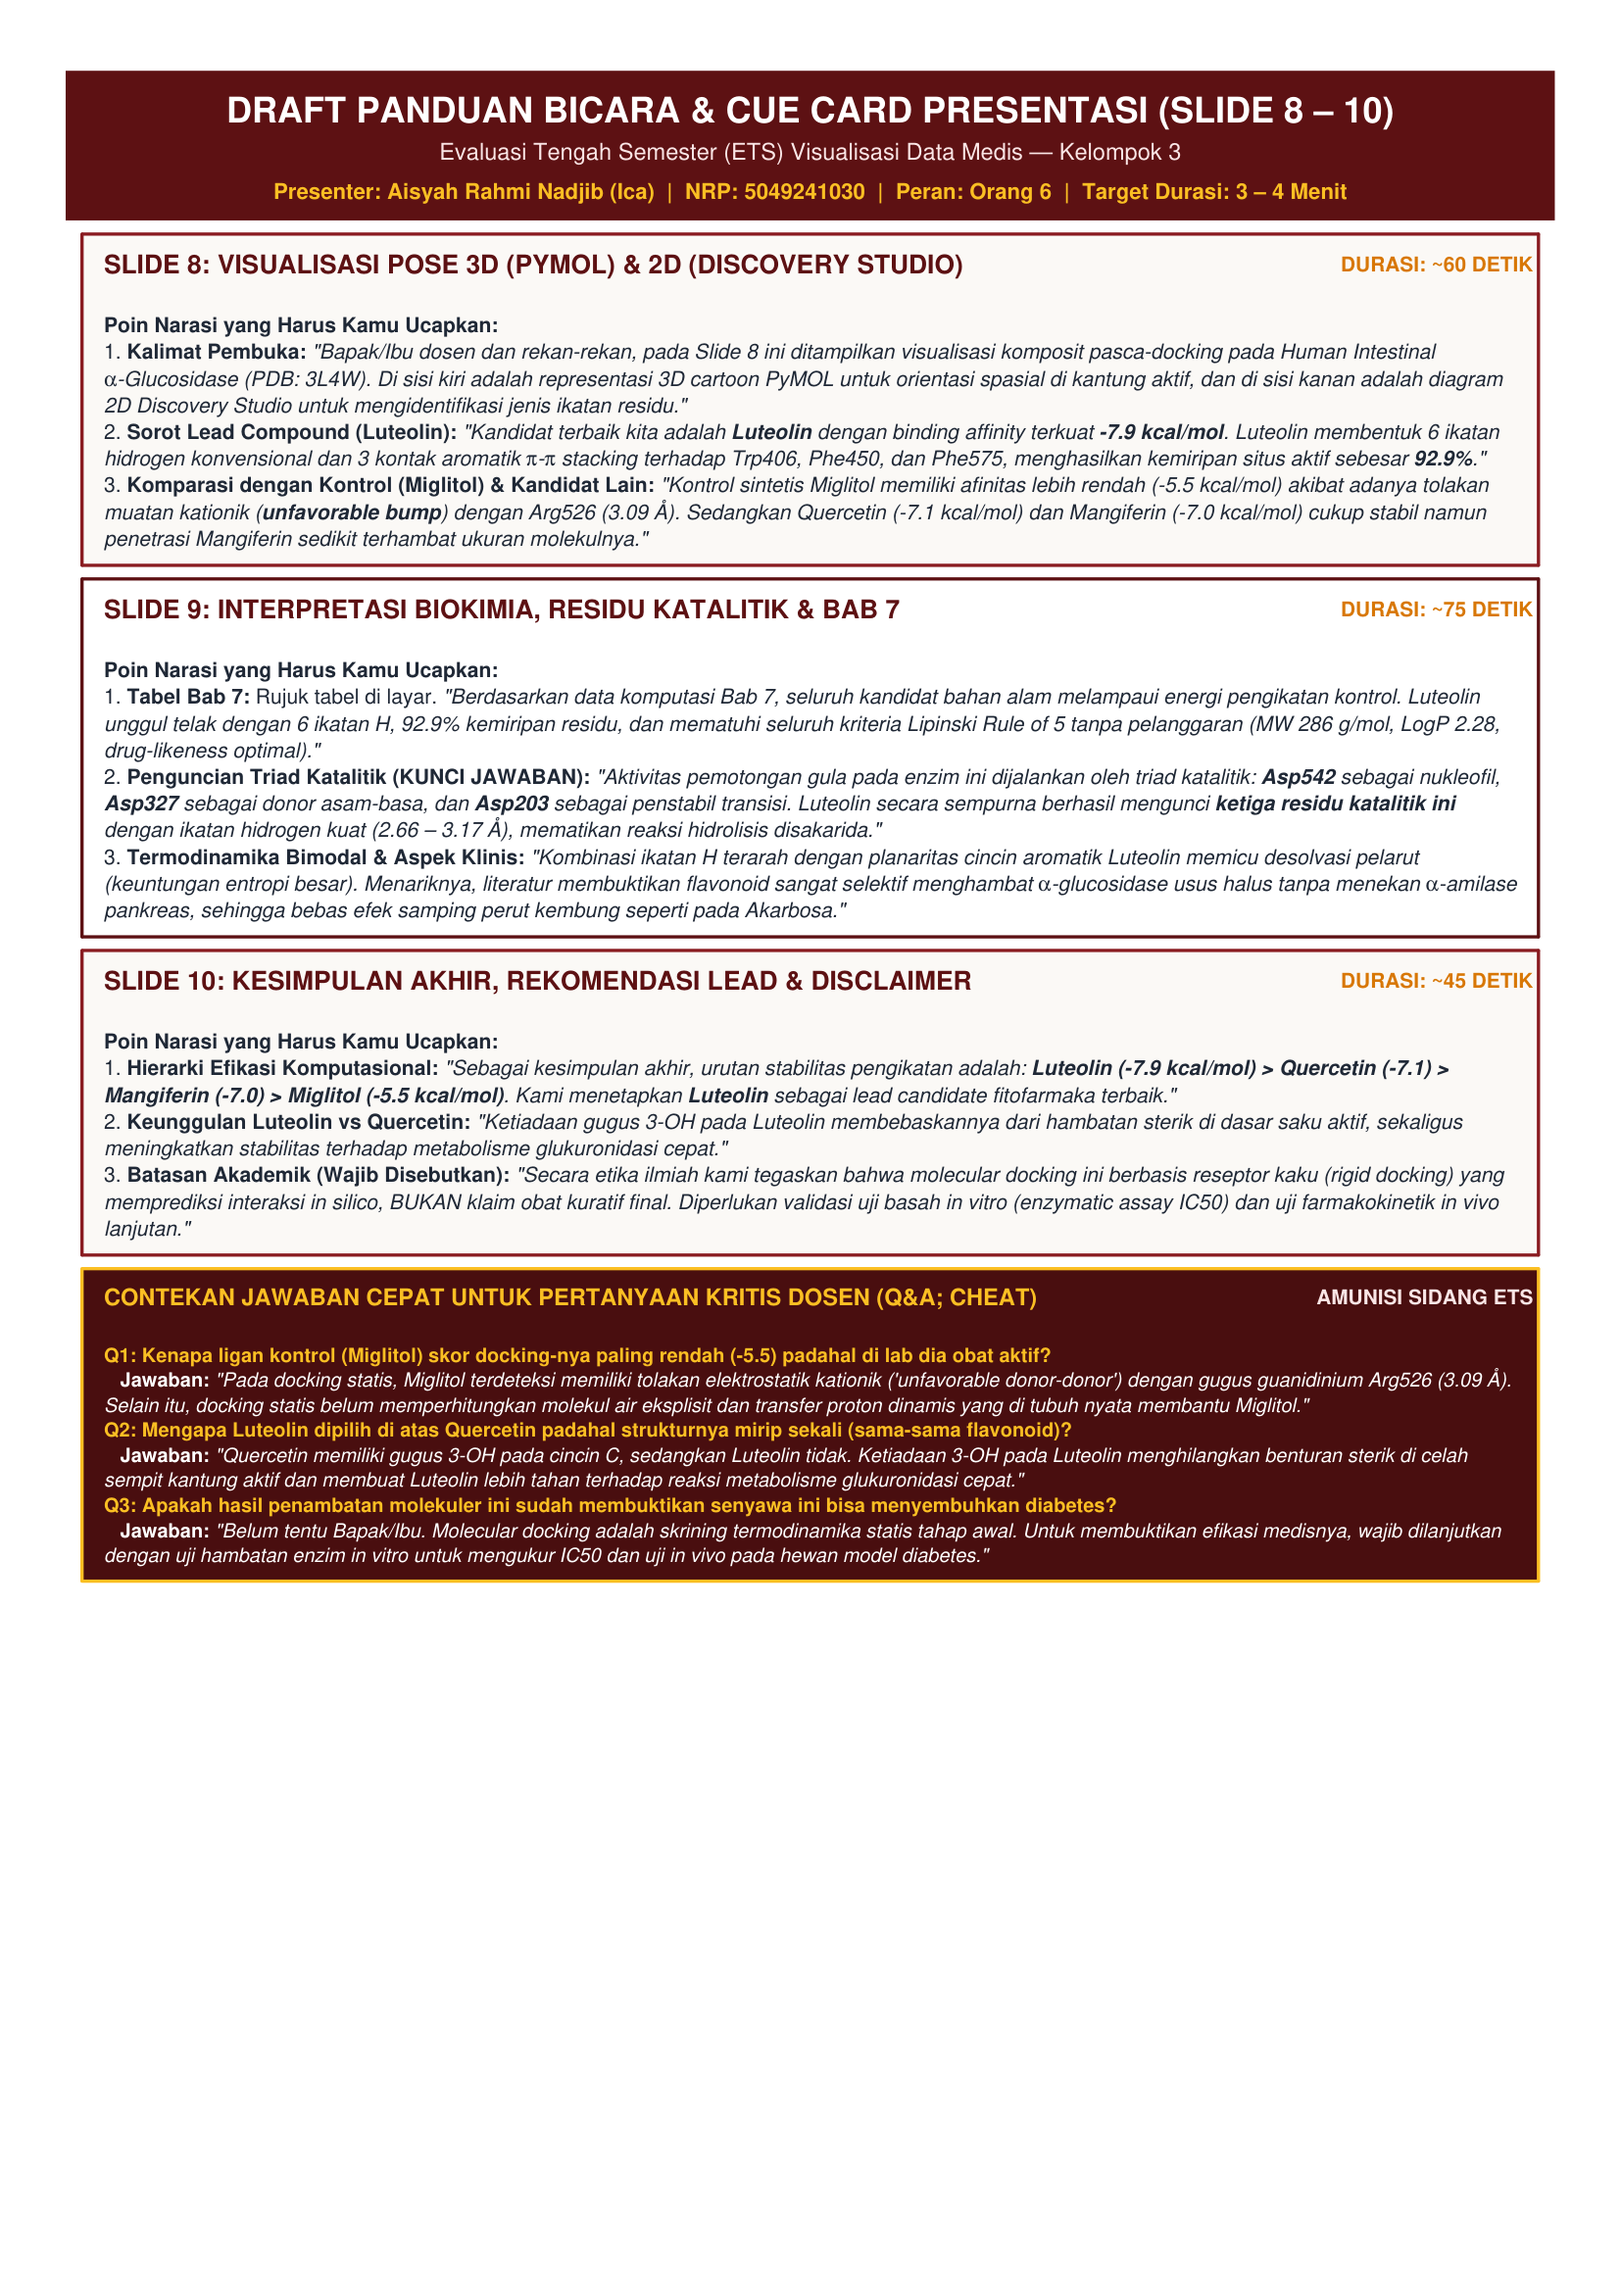
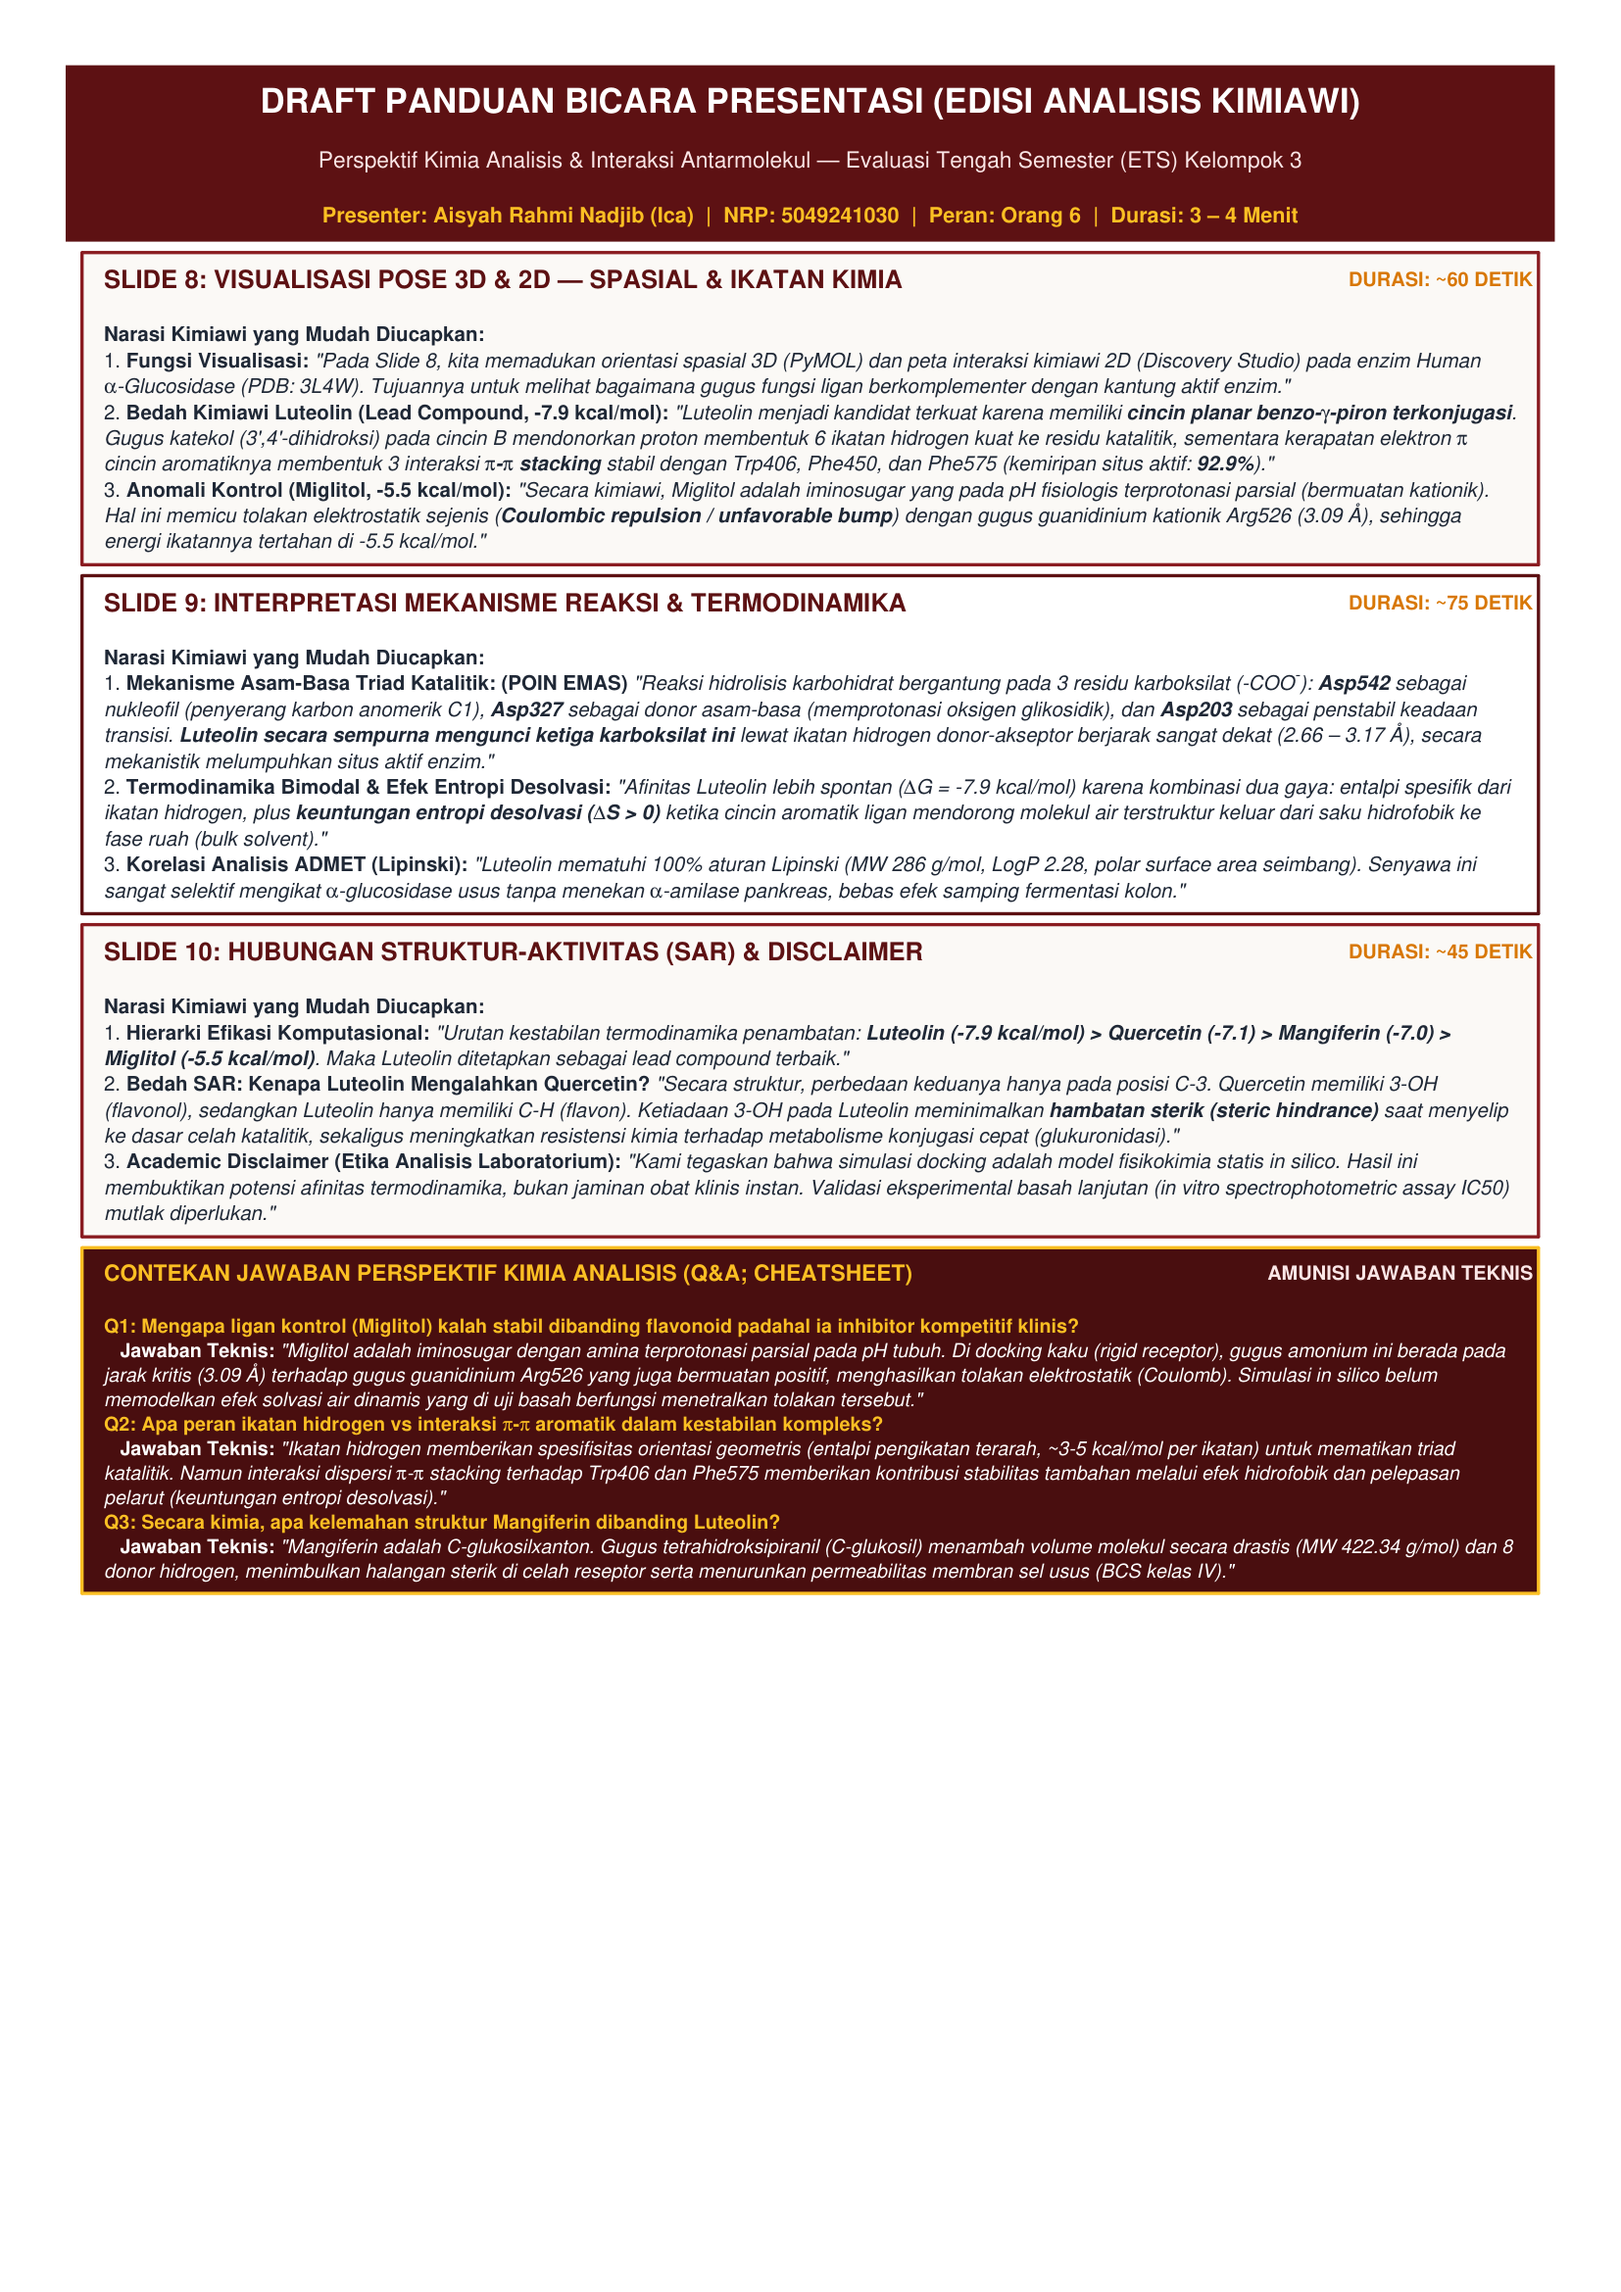
docs(orang 6): update 1-page cue card PDF and add analytical chemistry deep-dive guide for Ica

Changed region(s): [[0.0308, 0.0312, 0.9559, 0.7178]]

diff --git a/orang 6 ica/Bedah_Kimia_Analisis_Untuk_Ica.md b/orang 6 ica/Bedah_Kimia_Analisis_Untuk_Ica.md
@@ -1,0 +1,110 @@
+# 🧪 BEDAH KIMIA ANALISIS & MEKANISME REAKSI (KHUSUS UNTUK ICA)
+## "Mengingat Kembali Konsep Kimia Analis & Cara Menjelaskannya dengan Mudah tapi Tetap Ilmiah!"
+
+Halo Ica! Karena kamu punya background **Kimia Analisis**, sebenarnya materi penambatan molekuler (*molecular docking*) ini **100% adalah aplikasi nyata dari kimia larutan, kesetimbangan asam-basa, ikatan antarmolekul, dan termodinamika** yang dulu pernah kamu pelajari!
+
+Berikut adalah "jembatan ingatan" (recall cheat sheet) biar kamu bisa menjelaskan sisi kimiawinya dengan sangat luwes, masuk akal, dan bikin dosen langsung kagum!
+
+---
+
+## 🔬 1. Reaksi Utama Enzim: Kimia Hidrolisis Karbohidrat
+
+### Apa yang sebenarnya terjadi di usus secara kimia?
+Enzim **α-Glukosidase** bertugas memutus **ikatan glikosidik** ($\alpha-1,4$) pada disakarida (maltosa) menjadi dua molekul D-glukosa.
+Reaksi ini adalah **Substitusi Nukleofilik ($S_N2$ / $S_N1$-like) dengan Retensi Konfigurasi** yang melibatkan **Triad Residu Karboksilat**:
+
+```text
+       Substrat (Karbohidrat)
+               O (Jembatan glikosidik)
+              / \
+             C1  ... Oksigen glikosidik diprotonasi oleh Asp327 (-COOH mendonorkan H+)
+            /
+Asp542 (-COO⁻)  ===> Menyerang C1 anomerik (Nukleofil)
+            \
+Asp203 (-COO⁻)  ===> Menstabilkan ion oksokarbonium transisi (Transition State Stabilizer)
+```
+
+1. **Asp542 (Nukleofil Katalitik)**:
+   * Pada pH fisiologis usus ($\approx 6.8 - 7.2$), gugus karboksil rantai samping aspartat terdeprotonasi menjadi **anion karboksilat ($-COO^-$)**.
+   * Pasangan elektron bebas (PEB) pada oksigen $-COO^-$ bertindak sebagai **basa Lewis / nukleofil kuat** yang menyerang karbon anomerik ($C1$) substrat gula.
+2. **Asp327 (Donor Asam-Basa Umum)**:
+   * Bertindak sebagai **asam Bronsted-Lowry** (dalam bentuk terprotonasi $-COOH$), mendonorkan proton ($H^+$) ke atom oksigen jembatan glikosidik agar gugus pergi (*leaving group*) lepas.
+3. **Asp203 (Penstabil Keadaan Transisi)**:
+   * Menstabilkan muatan parsial positif pada cincin gula yang sedang bertransisi (*oxocarbenium ion-like transition state*) melalui gaya tarik elektrostatik.
+
+> 🗣 **Cara Ica Ngomong ke Dosen**:  
+> *"Secara kimia analitis, pusat katalitik enzim 3L4W dikendalikan oleh triad aspartat: Asp542 sebagai nukleofil penyerang C1 anomerik, Asp327 sebagai donor proton asam Bronsted, dan Asp203 penstabil keadaan transisi. Kandidat terbaik kita, Luteolin, berhasil mengunci ketiga karboksilat ini secara simultan lewat ikatan hidrogen donor-akseptor yang sangat rapat (2.66 – 3.17 Å), sehingga secara mekanistik mematikan reaksi hidrolisis gula!"*
+
+---
+
+## ⚡ 2. Mengapa Ligan Kontrol (Miglitol) Punya Energi Lebih Jelek (-5.5 kcal/mol)?
+
+Di lab basah (*in vitro*), Miglitol adalah obat antidiabetes paten. Tapi kenapa di hasil docking energinya cuma `-5.5 kcal/mol`, kalah dibanding flavonoid (`-7.0` s/d `-7.9 kcal/mol`)?
+
+### Penjelasan Kimia Analisis: "Coulombic Repulsion (Tolakan Muatan Sejenis)"
+1. **Sifat Fisikokimia Miglitol**:
+   * Miglitol adalah turunan iminosugar (*1-deoxynojirimycin*).
+   * Pada pH fisiologis, atom nitrogen pada cincin piperidinnya terprotonasi menjadi **kation amonium sekunder ($-NH_2^+-R$)**.
+2. **Sifat Residu Arg526**:
+   * Arginin memiliki rantai samping **gugus guanidinium** ($[-C(NH_2)_2]^+$) yang memiliki $pK_a \approx 12.5$.
+   * Artinya, pada pH tubuh, Arg526 **selalu bermuatan positif permanen (+1)**.
+3. **Tabrakan Elektrostatik**:
+   * Pada konformasi pose docking di AutoDock Vina, gugus amonium kationik Miglitol berada pada jarak **3.09 Å** dari kation guanidinium Arg526.
+   * Dua muatan positif yang berdekatan ini mengalami **Gaya Tolak Coulomb (Coulombic Repulsion)** yang di Discovery Studio ditandai sebagai garis merah putus-putus: **`Unfavorable Donor-Donor Bump`**!
+   * Akibatnya, nilai energi bebas netto $\Delta G$ Miglitol mengalami penalti (terdestabilisasi).
+
+> 🗣 **Cara Ica Ngomong ke Dosen**:  
+> *"Nilai afinitas Miglitol (-5.5 kcal/mol) tertahan karena adanya Unfavorable Donor-Donor bump dengan Arg526 (3.09 Å). Secara kimia analitis, gugus amina terprotonasi pada Miglitol dan gugus guanidinium pada Arg526 sama-sama bermuatan parsial positif pada pH fisiologis, memicu tolakan elektrostatik sejenis (Coulombic repulsion) pada model reseptor kaku."*
+
+---
+
+## 🧲 3. Dua Gaya Penentu Kemenangan Luteolin: Entalpi vs Entropi Desolvasi
+
+Di kimia fisik, energi bebas Gibbs dirumuskan:
+$$\Delta G = \Delta H - T\Delta S$$
+
+Agar ikatan obat spontan dan kuat, $\Delta G$ harus **sangat negatif**. Pada Luteolin (`-7.9 kcal/mol`), hal ini dicapai melalui **Sinergi Bimodal**:
+
+### 1. Kontribusi Entalpi Spesifik ($\Delta H < 0$):
+* **6 Ikatan Hidrogen Konvensional**:
+  * Gugus katekol ($3',4'-dihidroksi$) pada cincin B Luteolin bertindak sebagai donor proton ($D-H\cdots A$) ke atom oksigen karboksilat Asp327 ($2.66\text{ \AA}$) dan Asp542 ($3.14\text{ \AA}$).
+  * Jarak $2.66\text{ \AA}$ ini tergolong ikatan hidrogen **sangat kuat dan terarah**, menyumbangkan entalpi pengikatan sekitar $-3$ hingga $-5\text{ kcal/mol}$ per ikatan.
+
+### 2. Kontribusi Entropi Desolvasi ($\Delta S > 0$ sehingga $-T\Delta S < 0$):
+* Kantung aktif enzim di dalam air awalnya dipenuhi oleh molekul air yang tersusun rapi (*ordered water hydration shell* / entropi rendah).
+* Luteolin memiliki **kerangka cincin benzo-$\gamma$-piron planar yang hidrofobik**.
+* Ketika Luteolin masuk dan membentuk **$\pi$-$\pi$ stacking** dengan residu aromatik Trp406 (cincin indol), Phe575, dan Phe450 (cincin benzena), molekul air yang terkurung diusir keluar ke fase air bebas (*bulk solvent*).
+* Pelepasan air ini meningkatkan ketidakteraturan sistem secara drastis ($\Delta S_{pelarut} > 0$), menghasilkan dorongan termodinamika ekstra yang membuat $\Delta G$ melonjak stabil ke `-7.9 kcal/mol`!
+
+---
+
+## ⚖ 4. Hubungan Struktur dan Aktivitas (SAR): Luteolin vs Quercetin
+
+| Parameter Kimiawi | Quercetin (Kandidat 1) | Luteolin (Kandidat 2 — Pemenang) |
+| :--- | :--- | :--- |
+| **Golongan Senyawa** | **Flavonol** | **Flavon** |
+| **Gugus pada Posisi C-3** | **Ada gugus hidroksil ($-OH$)** | **Hanya atom hidrogen ($-H$)** |
+| **Energi Bebas ($\Delta G$)** | $-7.1\text{ kcal/mol}$ | **$-7.9\text{ kcal/mol}$ (Lebih Spontan)** |
+| **Efek Sterik Ruang** | Gugus $3-OH$ agak bulky di celah saku | **Planar mulus, bebas benturan sterik** |
+| **Kestabilan Kimiawi** | Rentan autooksidasi & glukuronidasi cepat | **Lebih resisten terhadap metabolisme tubuh** |
+
+### Kenapa ketiadaan gugus 3-OH justru bikin Luteolin lebih unggul?
+1. **Faktor Sterik**: Dasar kantung aktif enzim $\alpha$-glukosidase memiliki celah sub-situs -1 yang sempit. Ketiadaan gugus oksigen pada C-3 membuat Luteolin lebih fleksibel menyelip rapat (*tight fit*) ke dekat Asp327 tanpa menimbulkan benturan van der Waals dengan dinding saku.
+2. **Faktor Farmakokinetik (Metabolisme Fase II)**: Pada Quercetin, gugus $3-OH$ adalah situs utama yang sangat reaktif diserang oleh enzim tubuh (*UDP-glucuronosyltransferase*) untuk konjugasi glukuronidasi, yang langsung mematikan aktivitas biologisnya sebelum sempat bekerja. Luteolin tidak memiliki titik lemah ini!
+
+---
+
+## 💡 5. Kamus Singkat Istilah Kimia Analisis untuk Presentasi
+
+Biar kalau kamu ngomong terdengar ilmiah tapi santai:
+
+* **Binding Affinity ($\Delta G$)**: Energi bebas Gibbs penambatan. Semakin minus, ikatannya semakin stabil dan reaksi pembentukan kompleks protein-ligan semakin spontan.
+* **Gugus Katekol**: Cincin benzena dengan 2 gugus hidroksil bersebelahan (orto / $3',4'-OH$). Ini adalah "tangan pencengkeram" ligan untuk membuat ikatan hidrogen ke Asp327 dan Asp542.
+* **$\pi$-$\pi$ Stacking**: Interaksi non-kovalen tarik-menarik antara awan elektron $\pi$ yang terdelokalisasi pada dua cincin aromatik (misal: cincin flavon ligan dengan cincin indol Triptofan-406).
+* **Unfavorable Bump**: Tolakan elektrostatik antar atom dengan muatan sejenis atau tumpang-tindih jari-jari van der Waals yang terlalu dekat.
+* **Desolvasi Entropik**: Keuntungan energi akibat terusirnya molekul air dari kantung hidrofobik protein saat obat menempel.
+* **In Vitro Spectrophotometric Assay**: Uji eksperimen basah lanjutan di lab kimia menggunakan spektrofotometer UV-Vis dengan substrat *p-nitrophenyl-$\alpha$-D-glucopyranoside* (pNPG) untuk mengukur $IC_{50}$.
+
+---
+
+Dengan modal ini, kamu bisa mempresentasikan bagianmu dengan percaya diri tinggi. Jika dosen menguji aspek kimiawinya, kamu sudah punya senjata analisis yang sangat kuat dan presisi!
